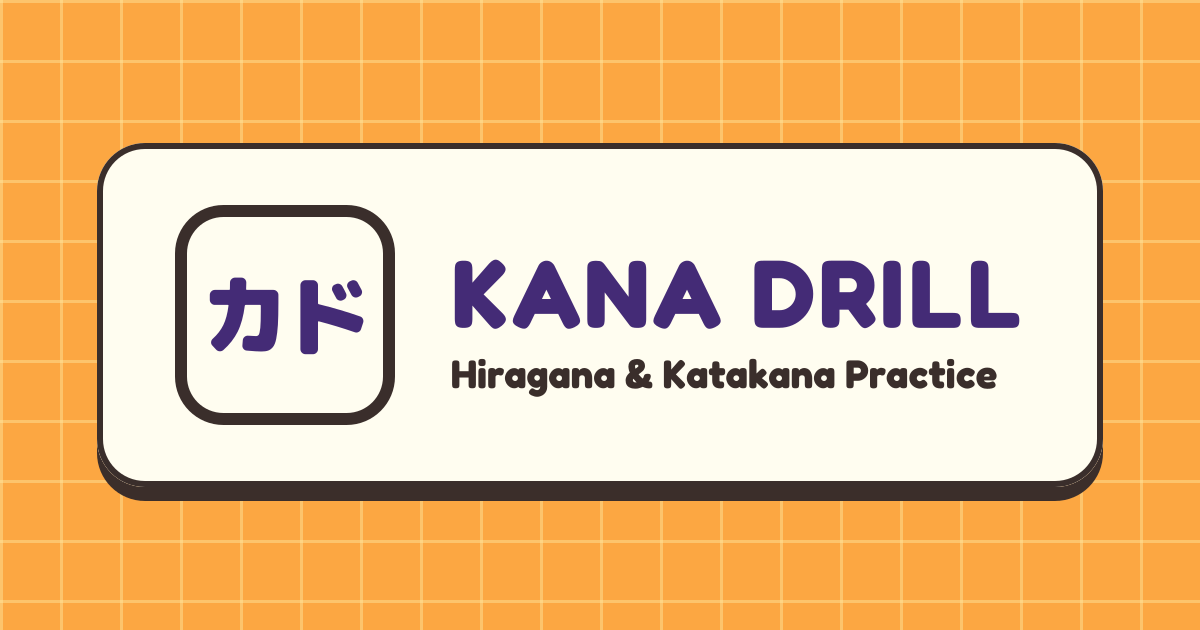
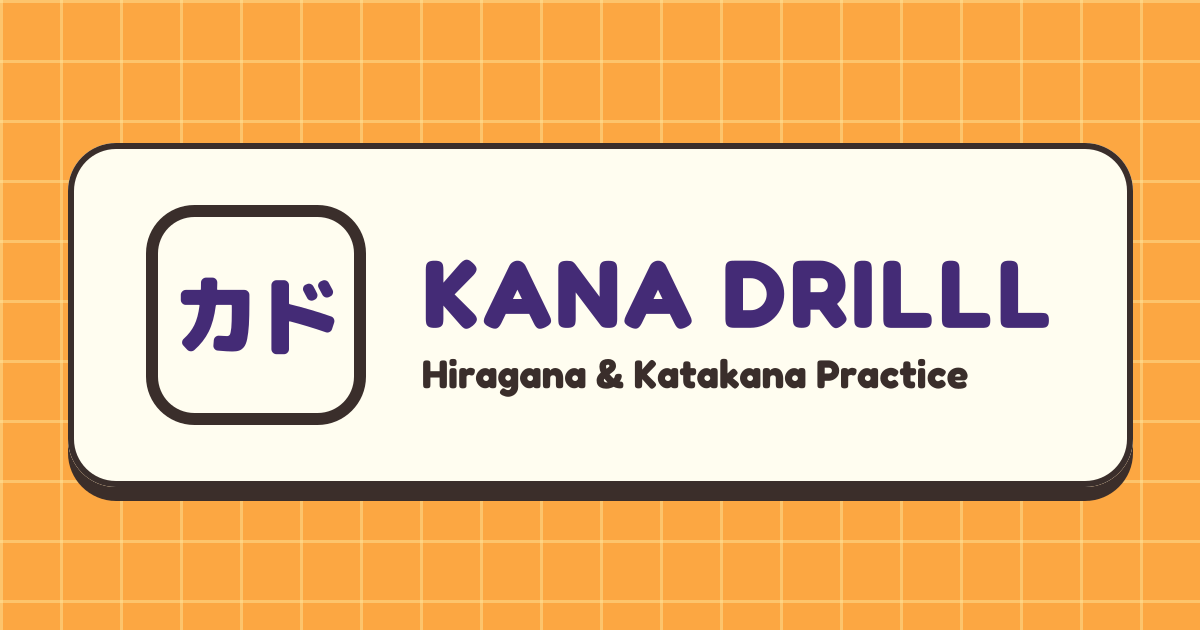
Rename brand to Kana Drilll
Site name, titles, manifest, OG image alt and the OG image itself.

Changed region(s): [[0.1233, 0.2111, 0.9558, 0.8143], [0.0308, 0.2111, 0.1233, 0.8143]]

diff --git a/lib/site.ts b/lib/site.ts
@@ -8,9 +8,9 @@ export const siteUrl =
     ? `https://${process.env.VERCEL_PROJECT_PRODUCTION_URL}`
     : "http://localhost:3000");
 
-export const siteName = "Kana Drill";
+export const siteName = "Kana Drilll";
 
-const ogImage = { url: "/og.png", width: 1200, height: 630, alt: "Kana Drill — Hiragana & Katakana Practice" };
+const ogImage = { url: "/og.png", width: 1200, height: 630, alt: "Kana Drilll — Hiragana & Katakana Practice" };
 
 export const modeTitle = (mode: Mode) => modes[mode].label.replace(" ➔ ", " to ");
 

diff --git a/app/manifest.ts b/app/manifest.ts
@@ -2,8 +2,8 @@ import type { MetadataRoute } from "next";
 
 export default function manifest(): MetadataRoute.Manifest {
   return {
-    name: "Kana Drill — Hiragana & Katakana Practice",
-    short_name: "Kana Drill",
+    name: "Kana Drilll — Hiragana & Katakana Practice",
+    short_name: "Kana Drilll",
     description: "Hiragana and katakana practice with random vocabulary quizzes.",
     start_url: "/",
     display: "standalone",

diff --git a/app/layout.tsx b/app/layout.tsx
@@ -16,7 +16,7 @@ const kana = M_PLUS_Rounded_1c({
 });
 
 const home = pageMetadata(
-  "Kana Drill — Hiragana & Katakana Practice",
+  "Kana Drilll — Hiragana & Katakana Practice",
   "Free hiragana and katakana practice with random Japanese vocabulary quizzes and English meanings: hiragana to romaji, romaji to hiragana, katakana to romaji, and romaji to katakana.",
   "/",
 );
